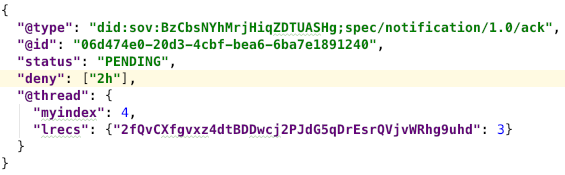
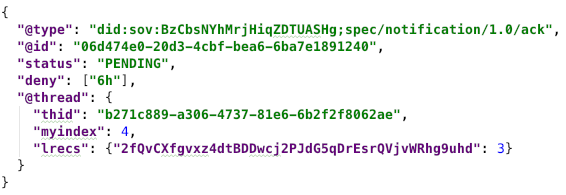
Add example section and todos

diff --git a/text/acks/README.md b/text/acks/README.md
@@ -58,37 +58,38 @@ something explicit. Otherwise they can't know with confidence about the final
 outcome of the flow.
 
 Rather than inventing a new "interaction has been completed successfully" message
-for each protocol, an all-purpose ACK is recommended. It looks like this:
+for each protocol, an all-purpose `ack` message type is recommended. It looks like
+this:
 
 [![sample ack](ack1.png)](ack1.json)
 
-It may also be appropriate to send an ACK at other key points in an interaction
+It may also be appropriate to send an ack at other key points in an interaction
 (e.g., when a key rotation notice is received).
 
-### Requesting an ACK (`@please_ack`)
+#### Requesting an ack (`@please_ack`)
 
-A protocol may stipulate that an ACK is always necessary in certain circumstances.
+A protocol may stipulate that an ack is always necessary in certain circumstances.
 Launch mechanics for spacecraft do this, because the stakes for a miscommunication
-are so high. In such cases, there is no need to request an ACK, because it is
-hard-wired into the protocol definition. However, ACKs make a channel more chatty,
+are so high. In such cases, there is no need to request an ack, because it is
+hard-wired into the protocol definition. However, acks make a channel more chatty,
 and in doing so they may lead to more predictability and correlation for
-point-to-point communications. Requiring an ACK is not always the right choice.
-For example, an ACK should probably be optional at the end of credential issuance
+point-to-point communications. Requiring an ack is not always the right choice.
+For example, an ack should probably be optional at the end of credential issuance
 ("I've received your credential. Thanks.") or proving ("I've received your proof,
 and it satisfied me. Thanks.").
 
-In addition, circumstances at a given moment may make an ad hoc ACK desirable even
+In addition, circumstances at a given moment may make an ad hoc ack desirable even
 when it would normally NOT be needed. Suppose Alice likes to bid at online auctions.
 Normally she may submit a bid and be willing to wait for the auction to unfold
 organically to see the effect. But if she's bidding on a high-value item and
 is about to put her phone in airplane mode because her plane's ready to take off,
 she may want an immediate ACK that the bid was accepted.
 
-The dynamic need for ACKs is expressed with the `@please_ack` message [decorator](
+The dynamic need for acks is expressed with the `@please_ack` message [decorator](
 https://github.com/hyperledger/indy-hipe/pull/71). In its simplest form, it looks
 like this: `"@please_ack": {}`.
 
-This says, "Please send me an ACK as soon as you process this message."
+This says, "Please send me an ack as soon as you process this message."
 
 A fancier version might look like this:
 
@@ -97,55 +98,57 @@ A fancier version might look like this:
 This says, "For the message that I already sent you, with 
 @id=b271c889-a306-4737-81e6-6b2f2f8062ae,
 please acknowledge that you've seen it as soon as you get this new message, and
-please send me a new ACK every 2 hours as long as status is still pending. Then
-send me a final ACK clarifying the outcome of the message once its outcome is
+please send me a new ack every 2 hours as long as status is still pending. Then
+send me a final ack clarifying the outcome of the message once its outcome is
 known."
 
 This sort of `@please_ack` might make sense when Alice expected a quick resolution,
 but got silence from Bob. She refers back to the message that she thought would
-finalize their interaction, and she asks for ongoing status every 2 hours until
+finalize their interaction, and she asks for ongoing status every 6 hours until
 there's closure. A `message_id` is optional; normally it's omitted since the message
-needing an ACK is the same message where ACK is requested. But including `message_id`
-allows Alice to change her mind about an ACK after she's sent a message.
+needing an ack is the same message where ack is requested. But including `message_id`
+allows Alice to change her mind about an ack after she's sent a message.
 
 The concept of "outcome" is relevant for interactions with a meaningful
 delay between the final actions of one actor, and the time when the product of
 those actions is known. Imagine Alice uses A2A messages to make an offer on a
-house, and Bob, the homeowner, has 72 hours to accept or reject. The default ACK
+house, and Bob, the homeowner, has 72 hours to accept or reject. The default ack
 event, *message processing*, happens when Alice's offer arrives. The *outcome*
 event for Alice's offer happens when the offer is accepted or rejected, and may
 be delayed up to 72 hours. Similar situations apply to protocols where an
 application is submitted, and probably to many other use cases.
 
-The notion of "on receipt" matters if the message requesting the ACK is not the same
-as the message that needs acknowledgment. This type of ACK may help compensate for
+The notion of "on receipt" matters if the message requesting the ack is not the same
+as the message that needs acknowledgment. This type of ack may help compensate for
 transmission errors, among other things.
 
-### When an ACK doesn't come
+#### [TODO: do we need @ack_for to turn other message types into ACKs?]
 
-All ACK behaviors are best effort unless a protocol stipulates otherwise. This is
-why the decorator name begins with `please`. A party that requests an explicit ACK
-cannot reason strongly about status when the ACK doesn't come. The other party may
-be offline, may be unable or unwilling to support fancy ACKs (or even simple ones),
+### When an ack doesn't come
+
+All ack behaviors are best effort unless a protocol stipulates otherwise. This is
+why the decorator name begins with `please`. A party that requests an explicit ack
+cannot reason strongly about status when the ack doesn't come. The other party may
+be offline, may be unable or unwilling to support fancy acks (or even simple ones),
 or may be communicating through a channel that's unreliable.
 
-However, a party that receives a `@please_ack` can, in an ACK response, indicate that
+However, a party that receives a `@please_ack` can, in an `ack` response, indicate that
 it is not going to comply with everything that was requested. This is best practice if
-a misalignment is known in advance, as it allows the ACK requester to adjust
+a misalignment is known in advance, as it allows the ack requester to adjust
 expectations. For example, the fancier `@please_ack` shown above could trigger the
-following ACK on receipt:
+following ack on receipt:
 
 [![ack with ack_deny](ack2.png)](ack2.json)
 
 Here, `deny` tells the recipient that, although the `receipt` request in the
 previous `@please_ack.on` was honored, and the `outcome` request will probably be
-honored as well, the recipient cannot expect an ACK every 2 hours. (The sender may
-still send ACKs at their discretion; the denial just says that this behavior can't
+honored as well, the recipient cannot expect an ack every 6 hours. (The sender may
+still send acks at their discretion; the denial just says that this behavior can't
 be counted on.)
 
-### ACK status
+### ack status
 
-The `status` field in an ACK tells whether the ACK is final or not with respect to
+The `status` field in an ack tells whether the ack is final or not with respect to
 the message being acknowledged. It has 3 predefined values: `OK` (which means an
 outcome has occurred, and it was positive); `FAIL` (an outcome has occurred, and
 it was negative); and `PENDING`, which acknowledges that no outcome is yet known.
@@ -163,30 +166,30 @@ buy did not lead to the outcome Alice intended when she sent it.
 This raises the question of errors. Any time an unexpected *problem*
 arises, best practice is to report it to the sender of the message that
 triggered the problem. This is the subject of the [Error Reporting HIPE](
-https://github.com/hyperledger/indy-hipe/pull/65), and its `problem-report`
+https://github.com/hyperledger/indy-hipe/pull/65) and its `problem-report`
 message family.
 
 A `problem-report` is inherently a sort of ACK. In fact, the `ack` message type
 and the `problem-report` message type are both members of the same `notification`
 message family. Both help a sender learn about status. Therefore, a request or
-requirement for an ACK can *often* be satisfied by a `problem-report` message.
+requirement for an `ack` can *often* be satisfied by a `problem-report` message.
 Where this is truly the case, it is recommended, as it decreases chattiness.
 
-But notice the hedge word "often." First, some ACKs may be sent before a final
-outcome, so a final `problem-report` may not satisfy all ACK obligations.
-Second, some `problem-report`s are warnings that do not report a definitive
-outcome; messages like this don't satisfy the `on: [OUTCOME]` ACK. Third, an ACK
-request may be sent after a previous `ack` or `problem-report` was lost in
-transit. Because of these caveats, developers whose code creates or consumes
-ACKs should be thoughtful about where the two message types overlap, and where
-they do not. Carelessness here is likely to cause subtle, hard-to-duplicate
-surprises from time to time.
+But notice the hedge word "often." We are hedging for at least three reasons.
+First, some `ack`s may be sent before a final outcome, so a final `problem-report`
+may not be enough. Second, some `problem-report`s are warnings that do not report
+a definitive outcome; messages like this aren't final and thus don't satisfy the
+`on: [OUTCOME]` ack request. Third, an ack request may be sent after a previous
+`ack` or `problem-report` was lost in transit. Because of these caveats, developers
+whose code creates or consumes acks should be thoughtful about where the two message
+types overlap, and where they do not. Carelessness here is likely to cause subtle,
+hard-to-duplicate surprises from time to time.
 
-### Signed (Non-repudiable) ACKs
+### Signed (Non-repudiable) acks
 [TODO: how do you ask for an ACK that commits its sender to the acknowledgment in
 a way that's provable to third parties? Open email to Mike Lodder...]
 
-### Muliplexed ACKs
+### Muliplexed acks
 [TODO: how do you ask for, and supply, an ACK to all of Alice's agents instead
 of just to the one who sent the ACK? Does each agent need to request the ACK
 separately? Are there denial-of-service or other security issues?]
@@ -212,19 +215,19 @@ that's decorated. Usually omitted, since most requests for an
 ACK happen in the same message that wants acknowledgment.
 
 ##### __`on`__
-Describes the circumstances under which an ACK is desired. Possible
+Describes the circumstances under which an ack is desired. Possible
 values in this array include `RECEIPT`, `OUTCOME`, and strings that express a
 time interval, as [documented in the HIPE about date- and time-related conventions](
 https://github.com/hyperledger/indy-hipe/blob/72d2bc1f380b51ba72bdfe9857518a500e9f0990/text/date-time-conventions/README.md#_elapsed).
-Support for ACKs on a time interval is an advanced feature and should not be
-depended upon. 
+Support for acks on a time interval is an advanced feature and should not be
+depended upon in the general case.
 
 In addition, it is possible to name protocol states in this array. To understand this, let's
 return to the example of Alice making an offer on a house. Suppose that the `home-buy`
 protocol names and defines the following states for the owner who receives an offer:
 `waiting-for-other-offers`, `evaluating-all-offers`, `picking-best-offer`. All of
 these states would be passed through by Bob after Alice sends her message, and
-she could request an ACK to be sent with each state, or with just some of them:
+she could request an ack to be sent with each state, or with just some of them:
 
 ```JSON
 "on": ["evaluating-all-offers", "OUTCOME"]
@@ -237,7 +240,7 @@ values in it should be ignored.
 
 ##### __`status`__
 
-Required. As discussed [above](#ack-status), this tells whether the ACK is final
+Required. As discussed [above](#ack-status), this tells whether the ack is final
 or not with respect to the message being acknowledged. Besides the 3 predefined
 values, protocol states may be named, with the same semantics as used in the
 `on` array of an `@please_ack` decorator (see just above). That is, the status
@@ -246,15 +249,131 @@ phase.
 
 ##### __`@thread.thid`__
 
-Required. This links the ACK back to the message that requested it.
+Required. This links the `ack` back to the message that requested it.
 
-All other fields in an ACK are present or absent per requirements of ordinary
+All other fields in an `ack` are present or absent per requirements of ordinary
 messages.
+
+### Examples
+
+Suppose AliceCorp and Bob are involved in credential issuance. Alice is an issuer;
+Bob wants to hold the issued credential.
+
+##### Happy Path
+
+In the final required message of the `issue-credential` protocol, AliceCorp sends
+the credential to Bob. But AliceCorp wants to know for sure that Bob has received it,
+for its own accounting purposes. So it decorates the final message with an ack
+request:
+
+```JSON
+"@please_ack: {}"
+```
+
+Bob honors this request and returns an `ack` as soon as he receives it. The
+interesting field is `status`, which look like this: `"status": "OK"` (or,
+if the `issue-credential` protocol defines a final state for the holder called
+`now-holding`, Bob could be more explicit and send '"status": "now-holding"'.
+
+##### Delayed Issuance
+
+Suppose instead that partway through the issuance protocol, a message gets
+dropped or delayed. Bob has sent his `credential-request` message with `@id:abc123`,
+but he's been waiting for a response for AliceCorp for a long time. He now sends
+a new message, requesting an ack. The message type is `problem-report` and the 
+severity is `WARN`, because Bob is unsure what the slow response means. `@thread.thid`
+points back to the message that began the issuance protocol, which was probably
+AliceCorp's `credential-offer`. `@thread.myindex` shows that this is the second
+message Bob is sending on the thread, not the first--and that Bob has seen only
+one message from AliceCorp on the thread, which was the offer to issue. This
+should help AliceCorp recognize that it's missed a `credential-request` from Bob,
+or if Bob has missed AliceCorp's response instead. Most importantly, this new
+message from Bob is decorated with `@request_ack`:
+
+```JSON
+{
+  "@type": "did:sov:BzCbsNYhMrjHiqZDTUASHg;spec/notification/1.0/problem-report",
+  "@id": "06d474e0-20d3-4cbf-bea6-6ba7e1891240",
+  "@thread": {
+    "thid": "abc123",
+    "pthid": "xyz234",
+    "myindex": 1,
+    "lrecs": {"<key for AliceCorp's issuing agent>": -1}
+  },
+  "@request_ack": { "message_id": "abc123" }
+}
+```
+
+[TODO: How does Bob say that he hasn't seen any response to abc123 on the xyz234 thread,
+instead of saying that he hasn't seen any response to abc123 on the abc123 thread?]
+
+If AliceCorp saw Bob's `credential-request` but has simply been slow to respond, then
+one possible response is to send Bob a message that says, "Yes, I know you asked for a
+credential. I'm working on it." Such an `ack` would look like this:
+
+```JSON
+{
+  "@type": "did:sov:BzCbsNYhMrjHiqZDTUASHg;spec/notification/1.0/ack",
+  "@id": "a7e174e0-032d-bf4c-a6eb-9126b84006d4",
+  "status": "PENDING",
+  "@thread": {
+    "thid": "abc123",
+    "pthid": "xyz234",
+    "myindex": 0,
+    "lrecs": {"<key for Bob's agent>": 0}
+  }
+}
+```
+
+Notice that `@thread.thid` has changed; the topic is now the missing message, not the
+larger interaction.
+
+If, on the other hand, AliceCorp is ready to issue the credential by the time the ack
+request arrives, it could respond with a credential. As long as the credential
+reply contains `@thread.lrecs: { <key for Bob's agent>: 1 }`, then it is an implicit
+ACK because it tells Bob that the ack request was seen, and Bob can discover the status.
+
+If AliceCorp has never seen Bob's `credential-request`, then AliceCorp can reply with
+a `problem-report` where the `@thread` object looks like this:
+
+```JSON
+{
+  "thid": "abc123",
+  "lrecs": {"<key for Bob's agent>": -1}
+}
+```
+This says, "I'm sorry, Bob. I haven't seen any message from you on a thread with that
+`@id`. (The code and comment in the `problem-report` message would probably clarify that
+as well, but it is the `-1` in `@thread.lrecs` that tells Bob what he needs to know.)
+Bob can now fix the problem by resending his `credential-request`. [TODO: what does the
+resend look like? Does it have a `replaces_myindex` property in `@thread` that clarifies
+how it is plugging the gap?]
+
+If AliceCorp has already issued the credential to Bob, it can reply with an `ack` that
+documents the outcome as far as it is concerned:
+
+```JSON
+{
+  "@type": "did:sov:BzCbsNYhMrjHiqZDTUASHg;spec/notification/1.0/ack",
+  "@id": "a7e174e0-032d-bf4c-a6eb-9126b84006d4",
+  "status": "OK",
+  "@thread": {
+    "thid": "xyz234",
+    "myindex": 2,
+    "lrecs": {"<key for Bob's agent>": 1}
+  }
+}
+```
+
+Because `status` is OK, Bob knows that AliceCorp thinks the interaction associated
+with his message "abc123", is over. Because `@thread.myindex` is 2 instead of 1, Bob
+knows that this `ack` is the 3rd message in the interaction (credential-offer=0,
+credential=1, ack=2). Bob can now ask AliceCorp to resend. [TODO: how is this done?]
 
 # Drawbacks and Alternatives
 [drawbacks]: #drawbacks
 
-This ACK mechanism is more complex than what developers might assume
+This mechanism is more complex than what developers might assume
 at first glance. Isn't an ACK just a dirt-simple message that says "Your
 message is acknowledged"?
 
